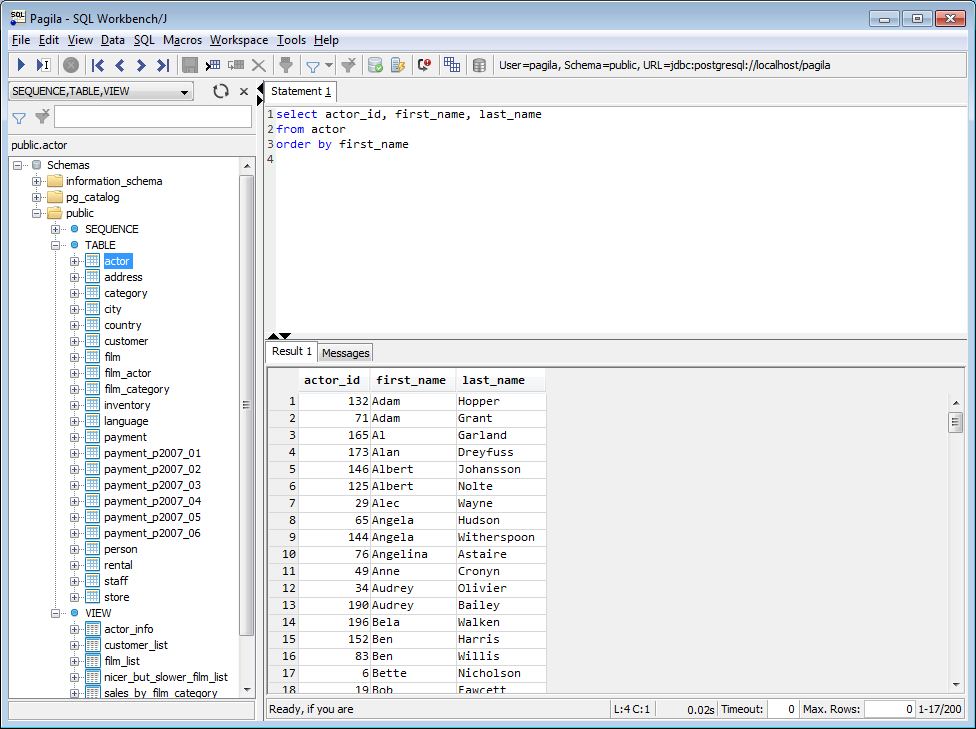
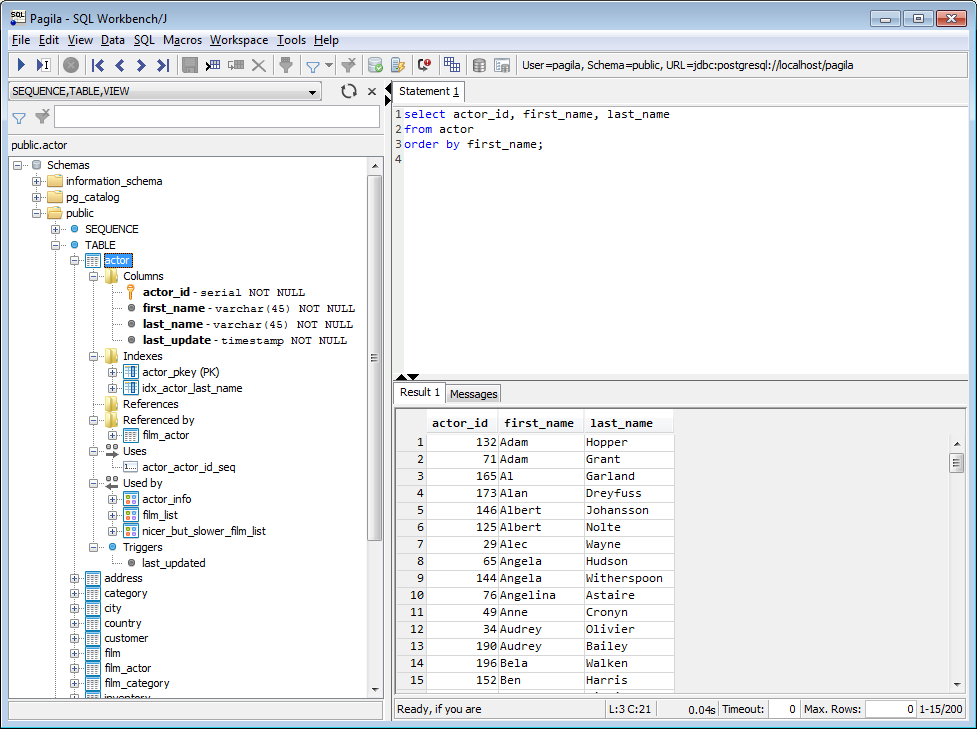
git-svn-id: http://sqlworkbench.mgm-tp.com/sqlworkbench/trunk/sqlworkbench@6763 6c36a7f0-0884-4472-89c7-80b7fa7b7f28

diff --git a/src/workbench/gui/dbobjects/ObjectScripterUI.java b/src/workbench/gui/dbobjects/ObjectScripterUI.java
@@ -64,7 +64,7 @@ public class ObjectScripterUI
 	protected JFrame window;
 	private boolean isRunning;
 	private final Object runMonitor = new Object();
-  private String lastObject;
+  private String mainObject;
 
 	public ObjectScripterUI(Scripter script)
 	{
@@ -116,6 +116,11 @@ public class ObjectScripterUI
     });
   }
 
+  public void setScriptObjectName(String name)
+  {
+    mainObject = name;
+  }
+
 	private void startScripting()
 	{
 		if (this.isRunning()) return;
@@ -134,13 +139,12 @@ public class ObjectScripterUI
 				try
 				{
 					setRunning(true);
-          lastObject = null;
 					window.setTitle(RunningJobIndicator.TITLE_PREFIX + baseTitle);
 					scripter.generateScript();
 				}
 				finally
 				{
-          window.setTitle(StringUtil.coalesce(lastObject, baseTitle));
+          window.setTitle(StringUtil.coalesce(mainObject, baseTitle));
 					setRunning(false);
 					EventQueue.invokeLater(() ->
           {
@@ -156,20 +160,17 @@ public class ObjectScripterUI
 	@Override
 	public void setCurrentObject(String currentObject, int current, int total)
 	{
-		if (current > 0 && total > 0)
-		{
-			this.statusMessage.setText(currentObject + " (" + current + "/" + total + ")");
-      if (current == total && total == 1)
+    WbSwingUtilities.invoke(() ->
+    {
+      if (current > 0 && total > 0)
       {
-        lastObject = currentObject;
+        statusMessage.setText(currentObject + " (" + current + "/" + total + ")");
       }
-		}
-		else
-		{
-      lastObject = currentObject;
-      statusMessage.setText(StringUtil.coalesce(currentObject,""));
-		}
-		this.statusMessage.repaint();
+      else
+      {
+        statusMessage.setText(StringUtil.coalesce(currentObject,""));
+      }
+    });
 	}
 
 	public void show(Window aParent)

diff --git a/src/workbench/gui/actions/ScriptDbObjectAction.java b/src/workbench/gui/actions/ScriptDbObjectAction.java
@@ -95,6 +95,10 @@ public class ScriptDbObjectAction
     s.setShowPackageProcedureOnly(showSinglePackageProcedure);
     s.setIncludeGrants(DbExplorerSettings.getGenerateTableGrants());
 		ObjectScripterUI scripterUI = new ObjectScripterUI(s);
+    if (objects.size() == 1)
+    {
+      scripterUI.setScriptObjectName(objects.get(0).getObjectExpression(source.getConnection()));
+    }
 		scripterUI.setDbConnection(source.getConnection());
 		scripterUI.show(SwingUtilities.getWindowAncestor(source.getComponent()));
 	}

diff --git a/src/workbench/db/DeleteScriptGenerator.java b/src/workbench/db/DeleteScriptGenerator.java
@@ -157,7 +157,14 @@ public class DeleteScriptGenerator
 
 	public void setValues(List<ColumnData> colValues)
 	{
-		this.columnValues = colValues;
+    if (colValues == null)
+    {
+      columnValues = null;
+    }
+		else
+    {
+      this.columnValues = new ArrayList<>(colValues);
+    }
 	}
 
 	@Override

diff --git a/test/dbtest/workbench/db/postgres/PostgresDependencyReaderTest.java b/test/dbtest/workbench/db/postgres/PostgresDependencyReaderTest.java
@@ -35,9 +35,6 @@ import org.junit.After;
 import org.junit.Before;
 import org.junit.Test;
 
-import workbench.db.postgres.PostgresDependencyReader;
-import workbench.db.postgres.PostgresTestUtil;
-
 import static org.junit.Assert.*;
 
 /**
